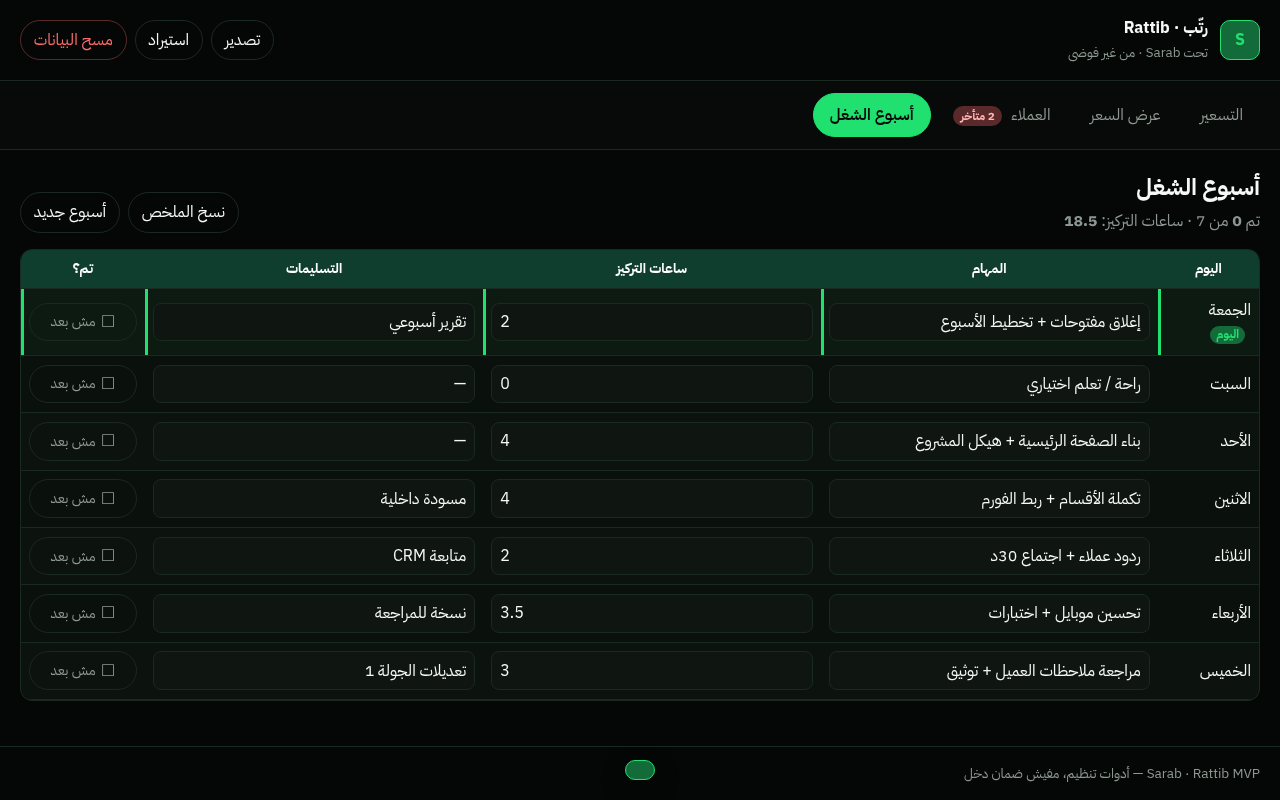
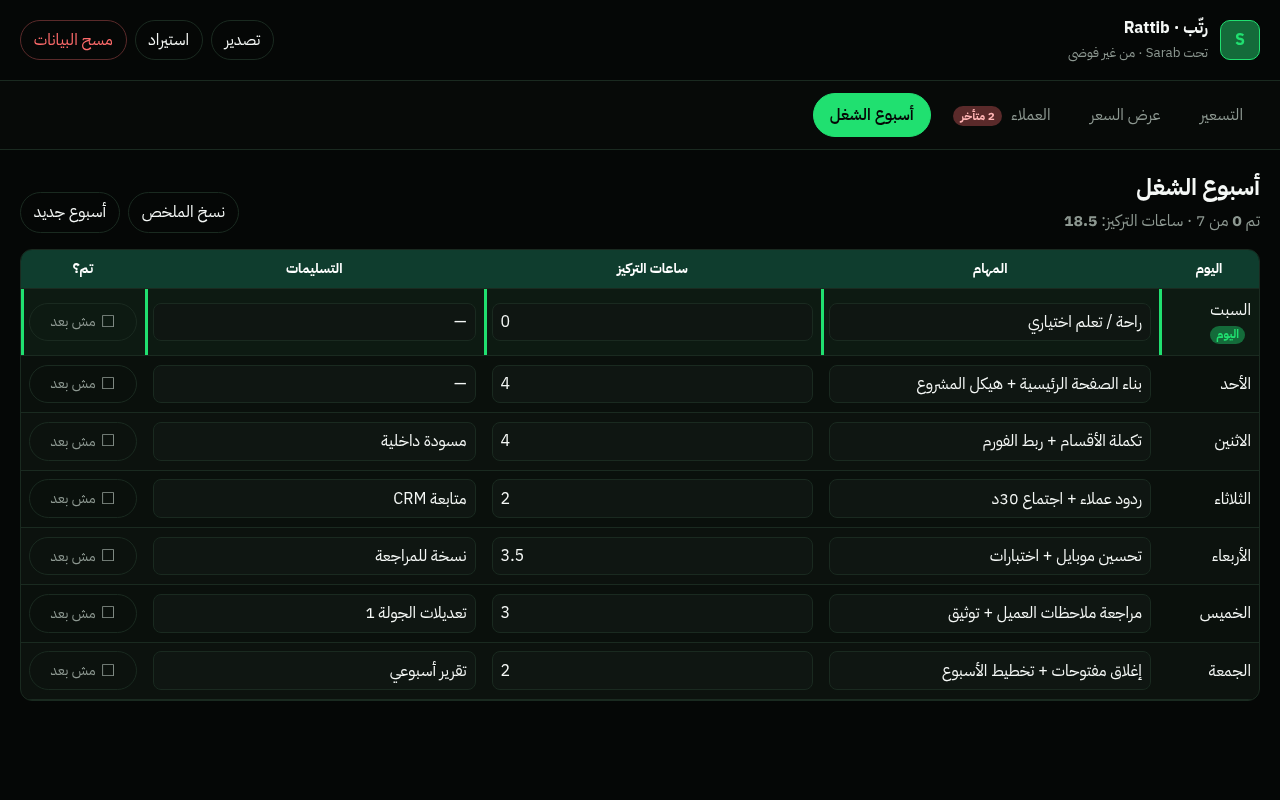
chore(funnel): Ep4 landing polish + Cairo weekly HQ
Align sticky Whop CTA label with hero/bio, match preview copy order to grid, ship bio a11y tap target, and reshoot weekly HQ with اليوم on السبت (Africa/Cairo).

diff --git a/index.html b/index.html
@@ -414,7 +414,7 @@
     <span style="color:rgba(245,248,246,0.7);font-size:0.72rem;font-weight:500">Instant download</span>
   </div>
   <div class="sticky-cta-actions">
-    <a class="btn" href="https://whop.com/3a4c1a95-1fd9-4864-9a4c-d293e48194f0/products/10f2ce23-2ff7-4b91-afdd-d1ce251f3f03/" target="_blank" rel="noopener noreferrer">Get Rattib — $12</a>
+    <a class="btn" href="https://whop.com/3a4c1a95-1fd9-4864-9a4c-d293e48194f0/products/10f2ce23-2ff7-4b91-afdd-d1ce251f3f03/" target="_blank" rel="noopener noreferrer">Get Rattib on Whop — $12</a>
     <a class="link-quiet" href="app/">Free preview</a>
   </div>
 </div>
@@ -471,7 +471,7 @@
 <section id="preview" style="padding:2.5rem 0 0.5rem">
   <div class="wrap">
     <h2>Product preview</h2>
-    <p class="ba-note" style="margin-bottom:1.25rem">Live screens from the free web app preview — pricing, proposal, CRM (filters + follow-up), and weekly board. Pack files match the same ops flow.</p>
+    <p class="ba-note" style="margin-bottom:1.25rem">Live screens from the free web app preview — pricing, proposal, weekly board, and CRM (filters + follow-up). Pack files match the same ops flow.</p>
     <div class="preview-grid">
       <figure class="preview-card">
         <img src="preview-pricing-hq.png" width="1280" height="800" alt="Rattib pricing: انقل للعرض / نسخ, deposit + USD, live totals" loading="lazy" decoding="async">
@@ -482,8 +482,8 @@
         <figcaption>App · Proposal · واتساب + رقم</figcaption>
       </figure>
       <figure class="preview-card">
-        <img src="preview-weekly-hq.png" width="1280" height="800" alt="Rattib weekly work board with one-tap تم / مش بعد" loading="lazy" decoding="async">
-        <figcaption>App · Weekly · تم / مش بعد</figcaption>
+        <img src="preview-weekly-hq.png" width="1280" height="800" alt="Rattib weekly board: اليوم on السبت (Africa/Cairo), one-tap تم / مش بعد" loading="lazy" decoding="async">
+        <figcaption>App · Weekly · السبت اليوم · تم / مش بعد</figcaption>
       </figure>
       <figure class="preview-card">
         <img src="preview-crm-hq.png" width="1280" height="800" alt="Rattib CRM: full Arabic status labels, filters, النهاردة, تواصلت / WhatsApp" loading="lazy" decoding="async">
@@ -583,7 +583,7 @@
       <h2>Get Rattib — $12</h2>
       <p>Instant delivery on Whop · one-time purchase · edit everything · no income promises</p>
       <a class="btn" href="https://whop.com/3a4c1a95-1fd9-4864-9a4c-d293e48194f0/products/10f2ce23-2ff7-4b91-afdd-d1ce251f3f03/" target="_blank" rel="noopener noreferrer">Buy on Whop — $12</a>
-      <p class="cta-sub-quiet">Or explore the <a href="app/">free web app preview</a> (pricing · proposal · CRM · week) — Whop still delivers the full pack.</p>
+      <p class="cta-sub-quiet">Or explore the <a href="app/">free web app preview</a> (pricing · proposal · week · CRM) — Whop still delivers the full pack.</p>
       <p class="cta-sub-quiet"><a href="upsell.html">Optional next tools</a> (QuoteForge / ScopeLock) — Rattib works alone.</p>
     </div>
   </div>

diff --git a/bio.html b/bio.html
@@ -106,19 +106,32 @@
   }
 
   .link-quiet {
-    display: inline-block;
-    margin-top: 0.85rem;
-    font-size: 0.88rem;
-    color: var(--muted);
+    display: inline-flex;
+    align-items: center;
+    justify-content: center;
+    margin-top: 0.95rem;
+    min-height: 2.75rem;
+    padding: 0.45rem 0.75rem;
+    font-size: 0.98rem;
+    line-height: 1.35;
+    color: #c5d2cb;
     text-decoration: underline;
     text-underline-offset: 3px;
-    font-weight: 500;
+    font-weight: 600;
+    border-radius: 8px;
   }
   .link-quiet:hover { color: var(--oasis); }
   .link-quiet:focus-visible {
     outline: 2px solid var(--oasis);
     outline-offset: 3px;
-    border-radius: 4px;
+  }
+  /* Full landing stays quieter under the price line */
+  .price .link-quiet {
+    min-height: 0;
+    padding: 0;
+    font-size: 0.88rem;
+    font-weight: 500;
+    color: var(--muted);
   }
 
   @media (prefers-reduced-motion: reduce) {
@@ -186,7 +199,7 @@
   </div>
   <div class="cta-block" role="region" aria-label="Primary next action">
     <p class="next-step">One clear next step</p>
-    <a class="btn" href="https://whop.com/3a4c1a95-1fd9-4864-9a4c-d293e48194f0/products/10f2ce23-2ff7-4b91-afdd-d1ce251f3f03/" target="_blank" rel="noopener noreferrer">Get Rattib — $12</a>
+    <a class="btn" href="https://whop.com/3a4c1a95-1fd9-4864-9a4c-d293e48194f0/products/10f2ce23-2ff7-4b91-afdd-d1ce251f3f03/" target="_blank" rel="noopener noreferrer">Get Rattib on Whop — $12</a>
     <a class="link-quiet" href="app/" lang="ar" dir="rtl">جرّب الـweb app مجاناً</a>
   </div>
   <p class="price">One-time on Whop · <strong>instant download</strong> · no subscription · Excel / CSV / Notion</p>
